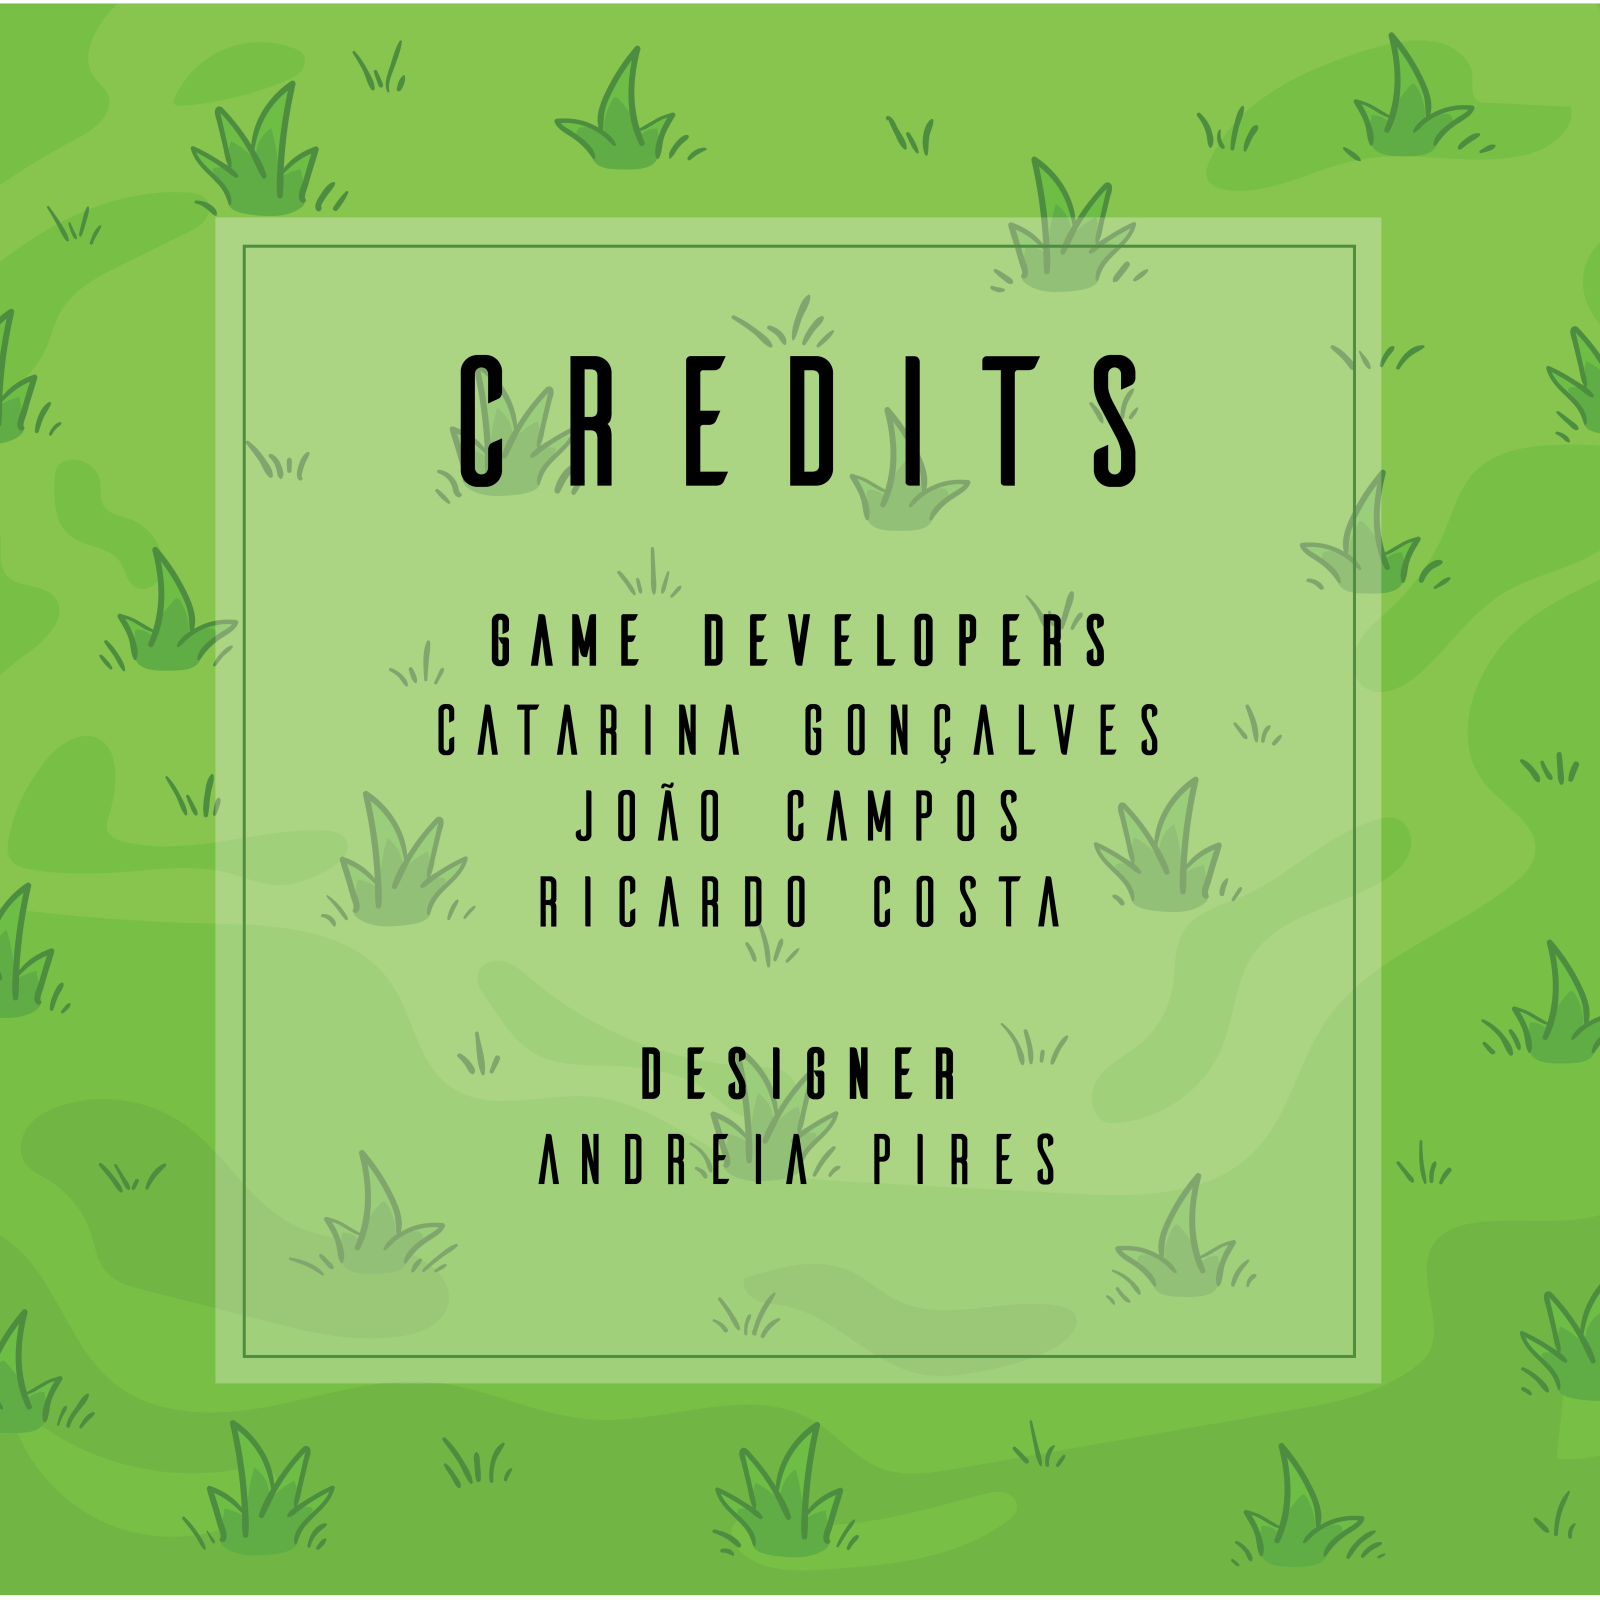
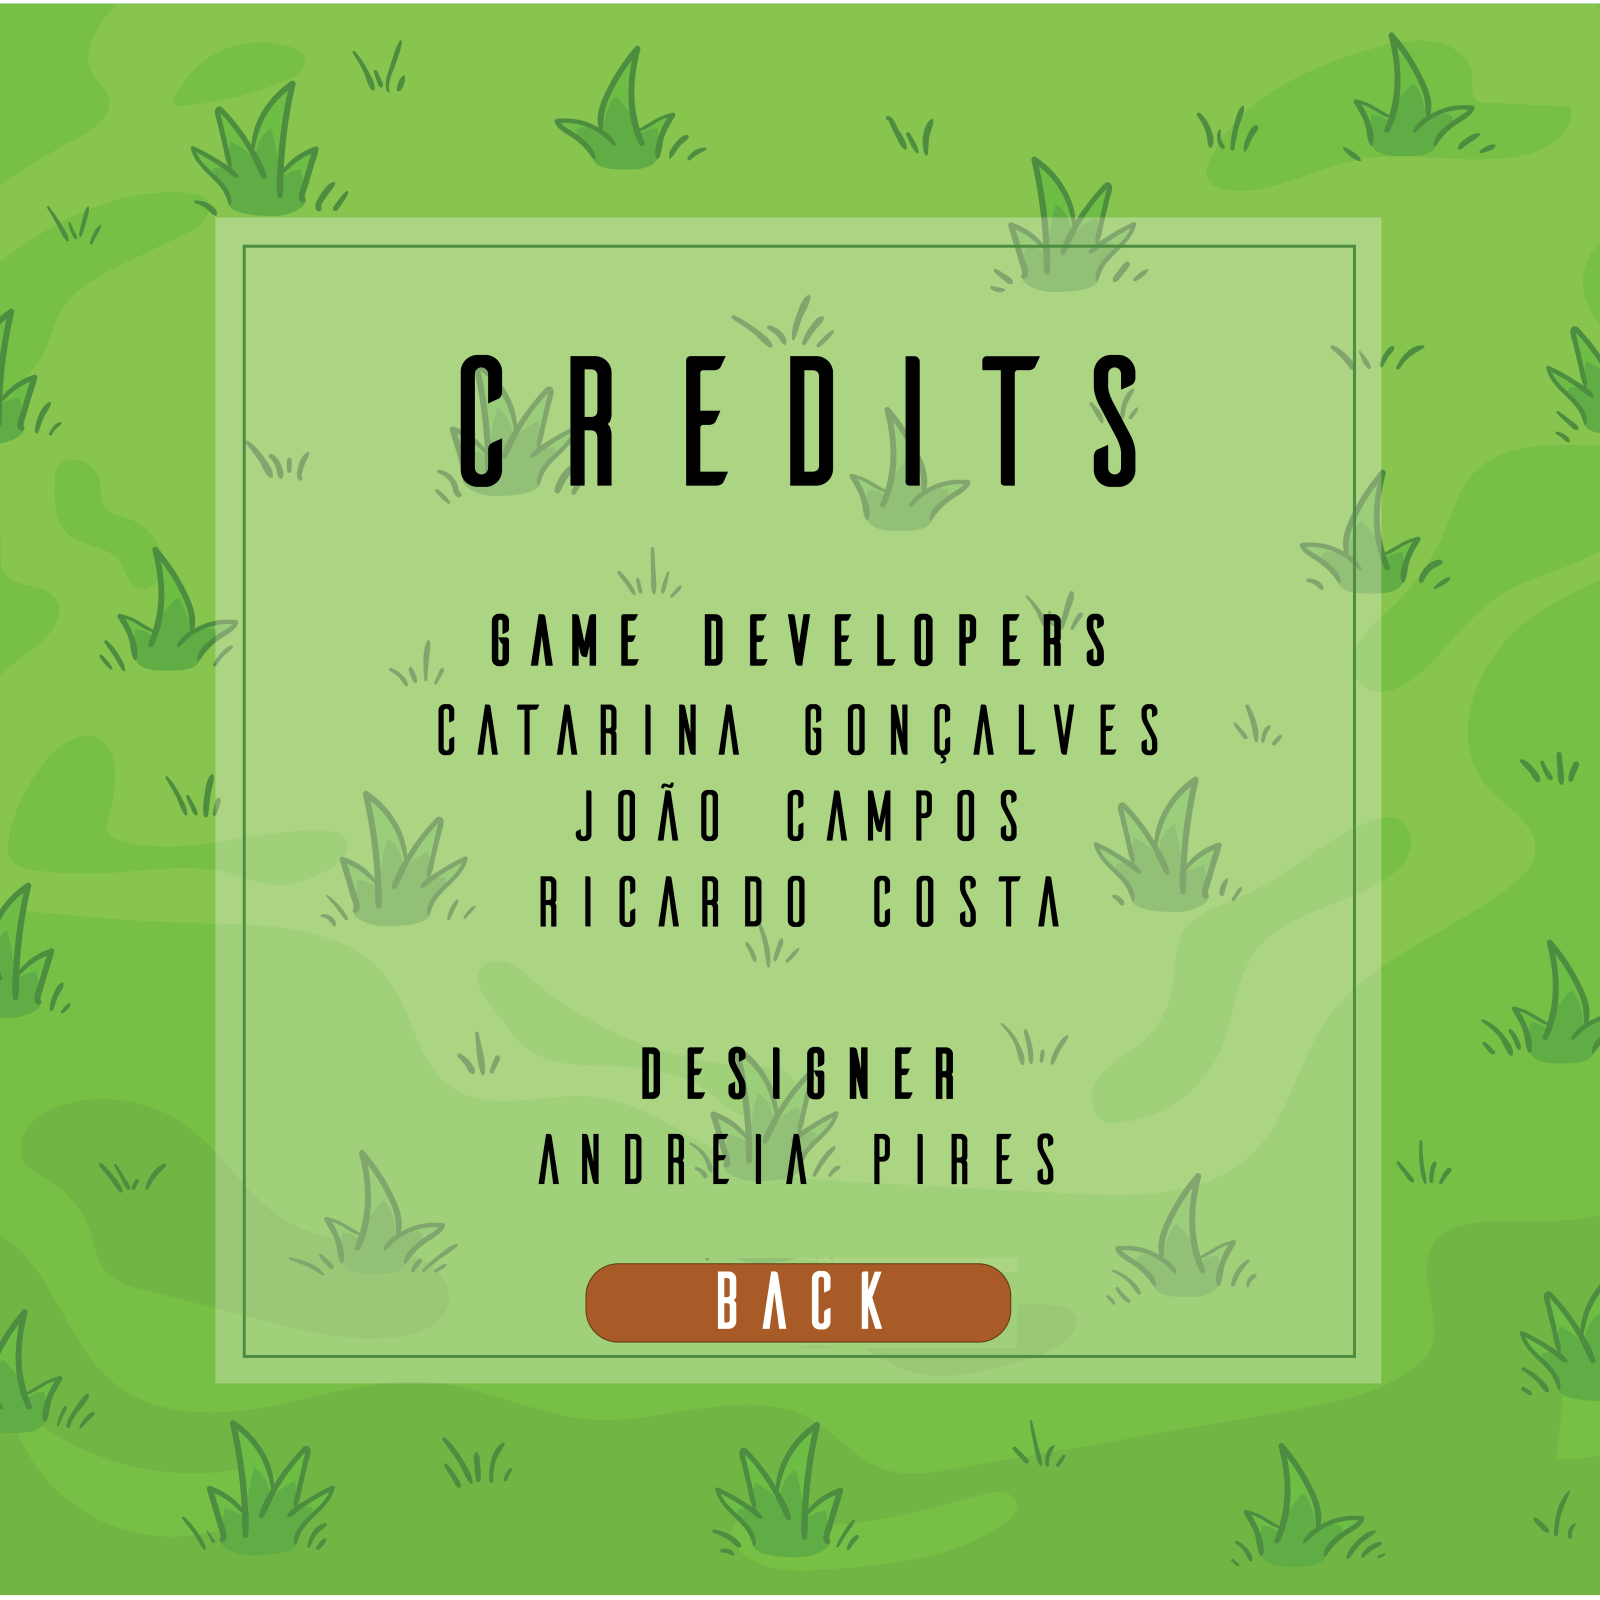
Back

Changed region(s): [[0.3438, 0.7812, 0.6562, 0.8438]]

diff --git a/js/GameEngine.js b/js/GameEngine.js
@@ -91,6 +91,7 @@ class GameEngine{
 			//this.stage="gameOver2";
 		}
 		//SOM
+		this.stage='menuMain';
 		//guardar level score e time num ficheiro
 	}
 
@@ -166,6 +167,7 @@ class GameEngine{
     	}
 		//wolf
 		for(let i = 0 ;i < this.listWolf.length; i++){
+			this.wall(this.listWolf[i]);
 			if(this.calcDist(this.dog.x,this.dog.y,this.listWolf[i].x,this.listWolf[i].y)<200){
 				this.listWolf[i].goto();
 				this.listWolf[i].flee(this.dog.x,this.dog.y);
@@ -222,7 +224,6 @@ class GameEngine{
 	}
 
 	isSafe(x,y){
-		   //a ovelha entrou na cerca 
 		if(x<0-25 && y<=500 && y>=300){
 			this.listMusics[8].play();
 
@@ -415,6 +416,7 @@ class GameEngine{
 	}
 
 	clickMenu(x,y){
+		console.log(this.stage);
 		switch(this.stage){
 			case("menuMain"):
 				if(x>=344 && x<=456 && y>=288 && y<=348){
@@ -449,11 +451,25 @@ class GameEngine{
 					this.changeSound(x);
 					this.soundVol = x;
 				}
-		
+				
+				if(x>293 && x<504 && y>592 && y<630){
+					this.stage="menuMain";
+				}
 				break;
 			case("menuLevel"):
 				//ve nivel a clicar e faz o start
 				this.listMusics[3].play();
+				break;
+			case("menuCredits"):
+				console.log("here");
+				if(x>294&&x<500&&y>630&&y<670){
+					this.stage="menuMain";
+				}
+				break;
+			case("menuScores"):
+				if(x>292&&x<508&&y>593&&y<627){
+					this.stage="menuMain";
+				}
 				break;
 		}
 	}

diff --git a/js/Game.js b/js/Game.js
@@ -231,15 +231,6 @@ document.onmousedown = function(mouse){
 		case("intro"):
 			gameEngine.stage = "menuMain";
 			break;
-		case("menuMain"):
-			gameEngine.clickMenu(x,y);
-			break;
-		case("menuOptions"):
-			gameEngine.clickMenu(x,y);
-			break;
-		case("menuLevel"):
-			gameEngine.clickMenu(x,y);
-			break;
 		case("game"):
 			if(mouse.which === 1){
 				if(!gameEngine.pause){
@@ -248,6 +239,11 @@ document.onmousedown = function(mouse){
 			}else{
 				gameEngine.callPause();
 			}	
+			break;
+		default:
+			gameEngine.clickMenu(x,y);
+			break;
+
 	}
 }
 document.oncontextmenu = function(mouse){
